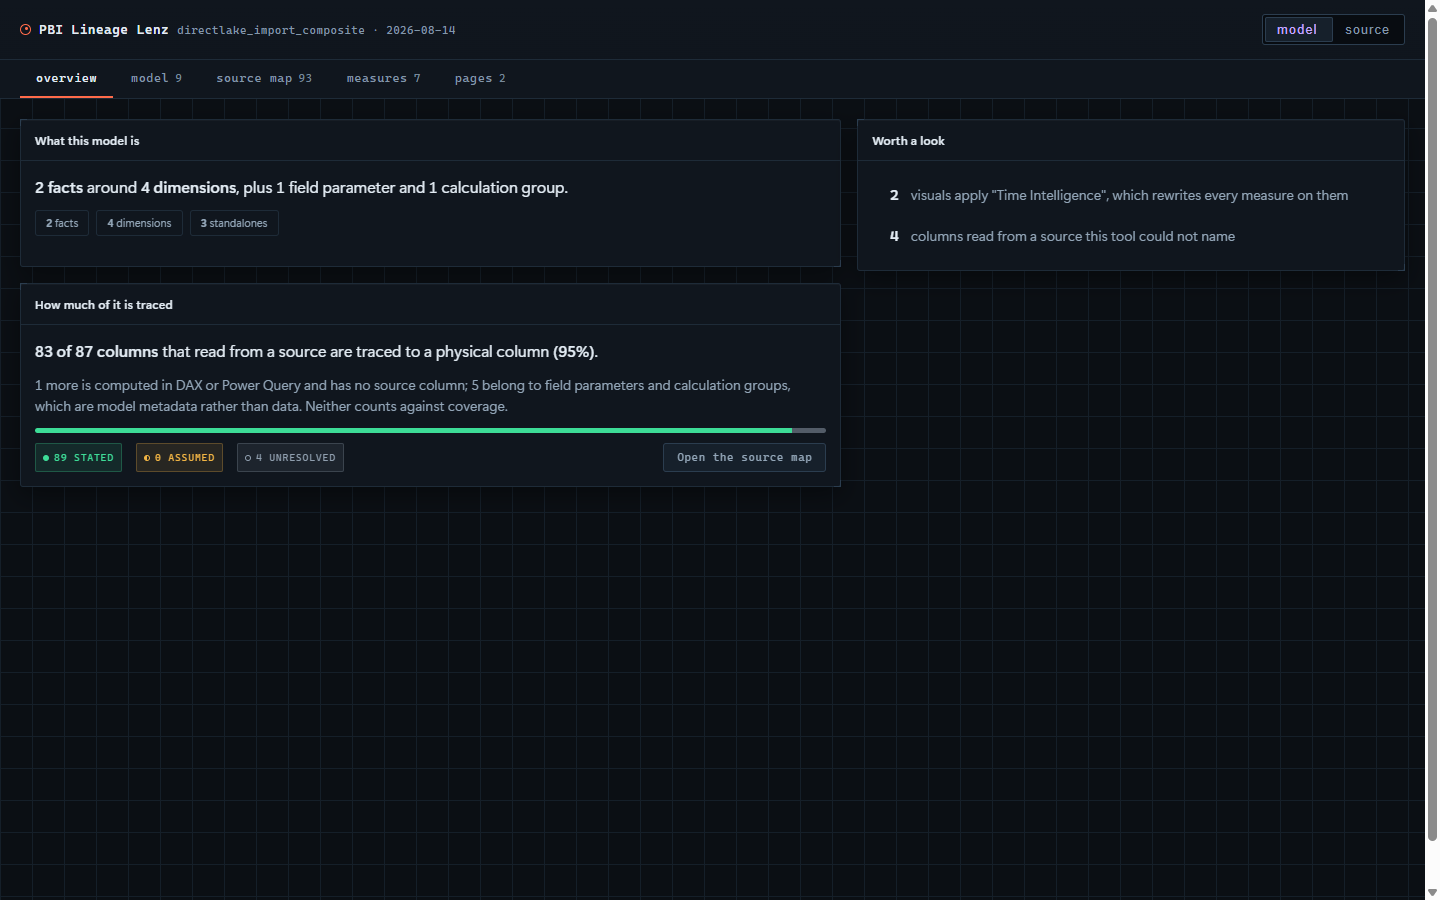
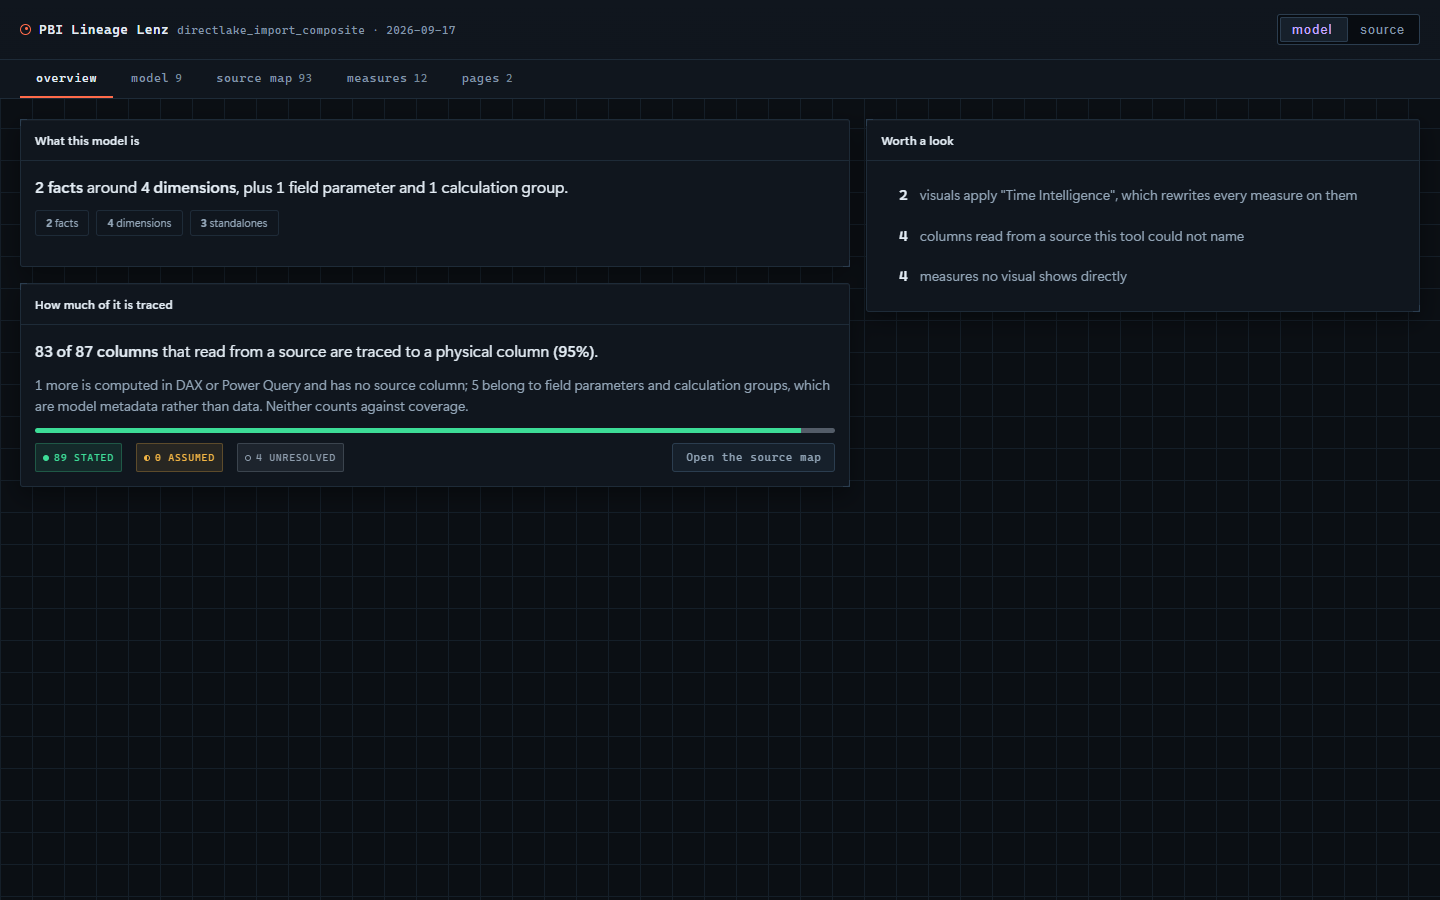
Regenerate README screenshots for 2.0.0
The measures lens now shows an alias measure resolved through its hidden measures, which
is the thing 2.0.0 added to that view; the other four are the same views, regenerated so
the counts match the sample as it now stands. Captured headless in Chrome at 1440x900,
dark theme, from the handoff file built from samples/contoso.

diff --git a/README.md b/README.md
@@ -167,9 +167,9 @@ table that only originates joins is a fact; one that only receives them is a dim
 
 **Measures** — the DAX, the physical columns underneath it, and every visual that shows it,
 each located on its page. That last one is the question that decides whether a change is
-safe.
+safe. An alias measure is read through every hidden measure below it, each with its DAX.
 
-![The measures lens: DAX, the physical columns it reads, and where it is shown](docs/images/measures.png)
+![The measures lens: an alias measure resolved through four hidden measures to the physical columns it reads](docs/images/measures.png)
 
 **Pages** — nothing is ever filtered out. Hidden visuals are listed with the bookmark that
 reveals them, and each field says *how* the visual reaches it: plotted, a dynamic title, a
